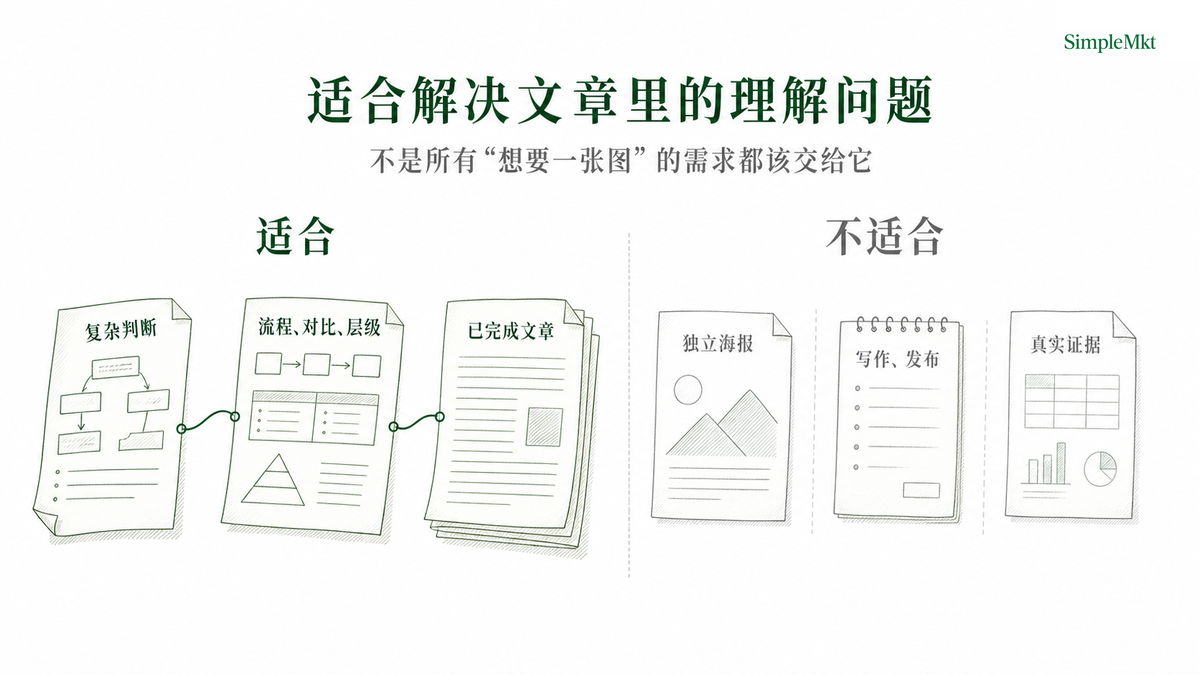
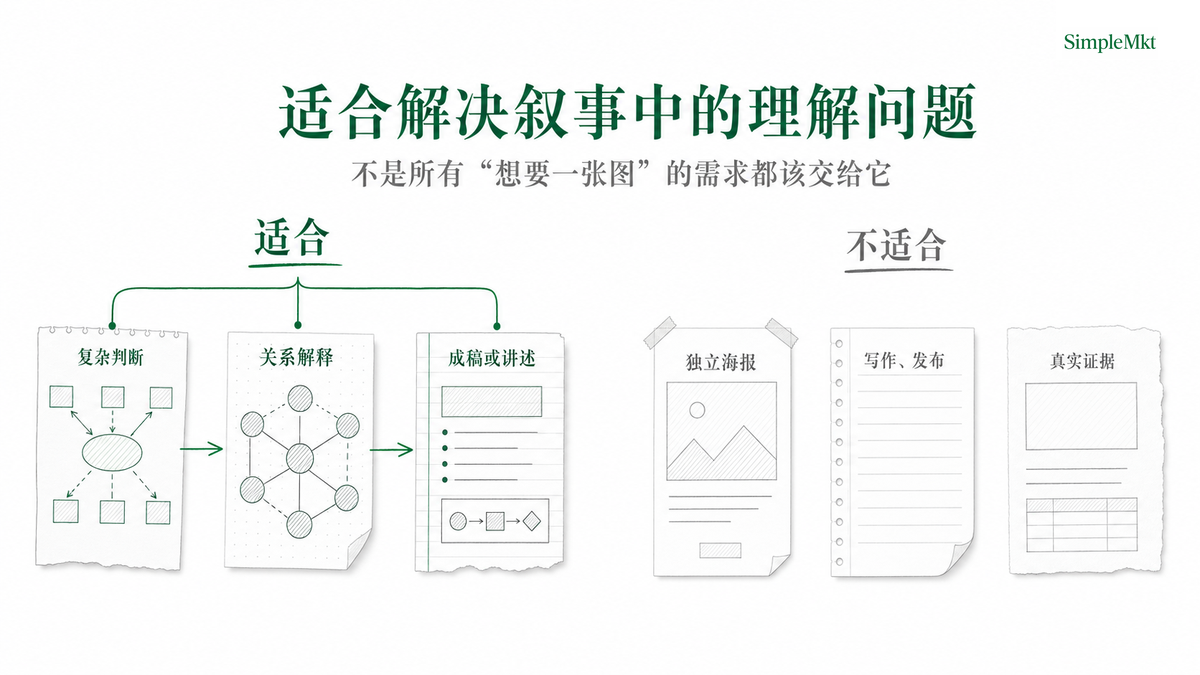
feat: refresh README visual storytelling

diff --git a/scripts/place_brand_wordmark.py b/scripts/place_brand_wordmark.py
@@ -35,8 +35,10 @@ def open_image(path: Path) -> Image.Image:
         raise SystemExit(f"cannot read image: {path}") from error
 
 
-def load_contract() -> dict[str, object]:
-    contract = LOGO_CONTRACT
+def load_contract(canvas: tuple[int, int] | None = None) -> dict[str, object]:
+    contract = {**LOGO_CONTRACT}
+    if canvas is not None:
+        contract["canvas"] = canvas
 
     canvas_width, canvas_height = contract["canvas"]
     wordmark_x, wordmark_y = contract["wordmark_top_left"]
@@ -115,7 +117,25 @@ def parse_arguments(arguments: list[str]) -> argparse.Namespace:
     parser.add_argument("--article-manifest", type=Path, required=True)
     parser.add_argument("--image-id", required=True)
     parser.add_argument("--attempt-id", type=int, required=True)
+    parser.add_argument(
+        "--canvas",
+        metavar="WIDTHxHEIGHT",
+        help="optional output canvas; preserves the fixed Logo box and top-right reserve",
+    )
     return parser.parse_args(arguments)
+
+
+def parse_canvas(value: str | None) -> tuple[int, int] | None:
+    if value is None:
+        return None
+    try:
+        width_text, height_text = value.lower().split("x", maxsplit=1)
+        width, height = int(width_text), int(height_text)
+    except ValueError as error:
+        raise SystemExit("--canvas must use WIDTHxHEIGHT, for example 1200x512") from error
+    if width <= 0 or height <= 0:
+        raise SystemExit("--canvas width and height must be positive")
+    return width, height
 
 
 def main(arguments: list[str]) -> int:
@@ -128,7 +148,7 @@ def main(arguments: list[str]) -> int:
     source_path = Path(parsed.underlying_image)
     wordmark_path = Path(parsed.wordmark_png)
     output_path = Path(parsed.output_png)
-    contract = load_contract()
+    contract = load_contract(parse_canvas(parsed.canvas))
     if wordmark_path.name != contract["asset"]:
         raise SystemExit(f"wordmark asset must match fixed contract: {contract['asset']}")
 

diff --git a/README.md b/README.md
@@ -6,7 +6,7 @@
 
 Turn a structured narrative—an article, talk, report, proposal, or workshop outline—into coherent explanatory images. It decides what needs to be shown, selects the right visual grammar, and delivers a traceable image package in the SimpleMkt editorial style.
 
-![Cover for “Open-source illustration Skill: images are part of the explanation”](examples/demo-article/assets/image/cover.png)
+![smkt-article-visual opening banner](examples/readme-visuals/hero-banner.png)
 
 [View the complete demo](examples/demo-article/article.md) · [Read the runtime contract](SKILL.md)
 
@@ -64,7 +64,7 @@ An attractive image is not enough when the audience needs to understand a proces
 | Internal alignment | A strategy memo or retrospective | Shared pictures of decisions, boundaries, systems, and handoffs. |
 | Workshop or course | A teaching outline or lesson script | Memorable teaching visuals that turn abstract concepts into a visible relationship. |
 
-![Four common use cases](examples/readme-visuals/usage-scenarios.png)
+![Five narrative use cases](examples/readme-visuals/usage-scenarios.png)
 
 ## What it explains
 

diff --git a/README.zh-CN.md b/README.zh-CN.md
@@ -6,7 +6,7 @@
 
 把文章、演讲稿、报告、提案或工作坊提纲这类结构化叙事，变成一组统一、可解释的图片。它判断什么值得画，选择合适图法，并以 SimpleMkt 编辑图风格交付可追溯的图片包。
 
-![《开源配图Skill：配图不是装饰，而是解释的一部分》封面](examples/demo-article/assets/image/cover.png)
+![smkt-article-visual 开场 Banner](examples/readme-visuals/hero-banner.png)
 
 [查看完整 Demo](examples/demo-article/article.md) · [查看 Skill 运行契约](SKILL.md)
 
@@ -64,7 +64,7 @@ mode: plan
 | 内部对齐 | 战略 memo 或项目复盘 | 共同理解决策、边界、系统与交接关系的图。 |
 | 工作坊或课程 | 教学提纲或课程脚本 | 把抽象概念变成可讲、可记的教学图。 |
 
-![SMKT Article Visual 的四类使用场景](examples/readme-visuals/usage-scenarios.png)
+![SMKT Article Visual 的五类使用场景](examples/readme-visuals/usage-scenarios.png)
 
 ## 它解释什么
 
